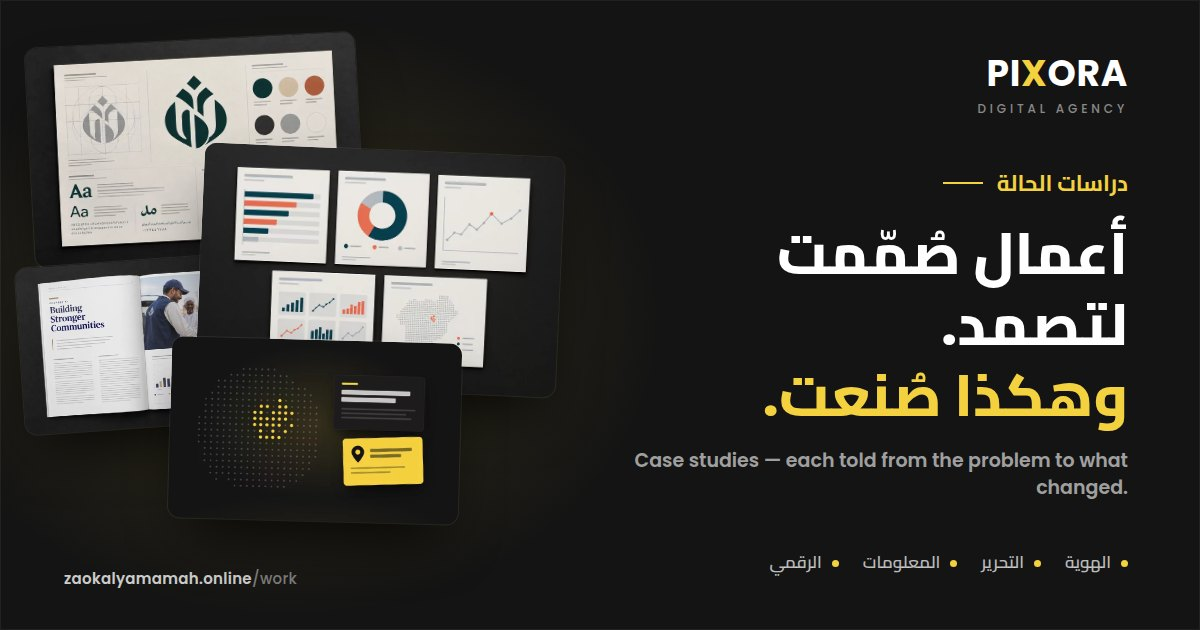
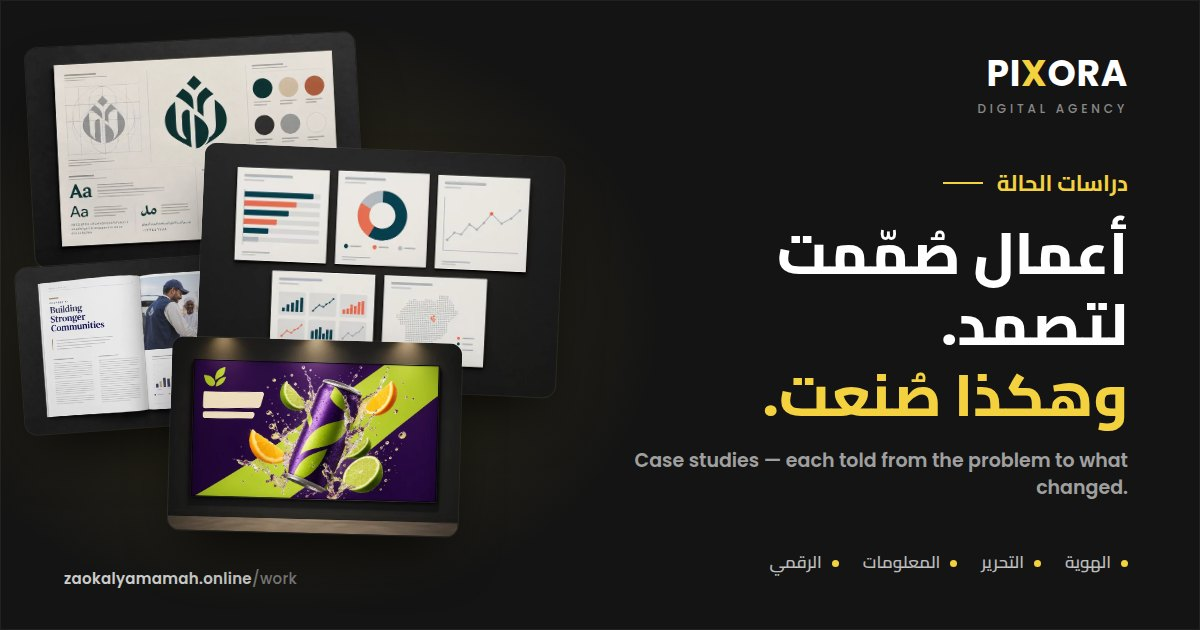
Remove Talk About Sudan; case study cards say what each study holds
- Talk About Sudan leaves the site: its study, hub card, drawn cover,
  images, link preview and the two drawings only it used. The /work
  preview's fourth print is now the digital campaigns key visual.
- Cards list how many pieces of work and chapters a study has, and its
  first pieces by name (+N for the rest); Al Mada's lists its four surfaces.
- Filters show how many studies each discipline holds, and sit in one
  sideways row on phones instead of wrapping.
- Tighter card padding on phones, a visible keyboard focus ring, and the
  arrow nudges forward on hover (mirrored in Arabic).
- Tests: every card lists its pieces, filter counts match, the study is gone.

Claude-Session: https://claude.ai/code/session_01DikwkirUeZhUSz4Z2QWBP7

Changed region(s): [[0.1233, 0.5127, 0.4008, 0.8746]]

diff --git a/tools/css/cases.css b/tools/css/cases.css
@@ -65,4 +65,25 @@
 /* The closing link and more of the work on Behance, side by side, wrapping on phones. */
 .c-story__close .c-story__link+.c-story__link{margin-inline-start:var(--space-32)}
 @media (max-width:40em){.c-story__close .c-story__link+.c-story__link{display:flex;inline-size:max-content;margin-inline-start:0;margin-block-start:var(--space-16)}}
+/* Cards, second pass: what each study holds, how many per discipline, and
+   a filter that stays on one line on phones. */
+.c-cases__count{display:inline-grid;place-items:center;min-inline-size:1.5rem;block-size:1.5rem;margin-inline-start:var(--space-8);padding-inline:0.375rem;border-radius:var(--radius-pill);background-color:rgba(255,255,255,0.08);font-size:0.75rem;font-variant-numeric:tabular-nums;color:inherit}
+.c-cases__radio:checked + .c-cases__chip .c-cases__count{background-color:rgba(0,0,0,0.14)}
+@media (max-width:47.99em){
+.c-cases__filter{flex-wrap:nowrap;overflow-x:auto;overscroll-behavior-x:contain;scrollbar-width:none;margin-inline:calc(var(--container-gutter) * -1);padding-inline:var(--container-gutter);padding-block:4px;scroll-padding-inline:var(--container-gutter);mask-image:linear-gradient(to right,transparent,#000 var(--space-16),#000 calc(100% - var(--space-24)),transparent)}
+.c-cases__filter::-webkit-scrollbar{display:none}
+.c-cases__chip{flex:none;white-space:nowrap}}
+.c-case-card__link{--pad:clamp(1.25rem,4vw,2rem);padding:var(--pad)}
+.c-case-card__media{margin:calc(var(--pad) * -1) calc(var(--pad) * -1) var(--space-12);box-shadow:0 -1px 0 rgba(255,255,255,0.06) inset}
+.c-case-card__link:focus-visible{outline:2px solid var(--color-accent);outline-offset:4px}
+.c-case-card__meta{font-size:var(--text-body-sm);color:var(--color-text-muted)}
+.c-case-card__pieces{display:flex;flex-wrap:wrap;gap:var(--space-8)}
+.c-case-card__piece{display:inline-flex;align-items:center;min-block-size:1.75rem;padding-inline:var(--space-12);border:var(--border-hairline);border-radius:var(--radius-pill);font-size:0.8125rem;color:var(--color-text-secondary)}
+.c-case-card__piece--more{color:var(--color-accent);border-color:rgba(244,209,63,0.35)}
+.c-case-card__go .c-btn__icon{transition:translate var(--duration-base) var(--ease-out)}
+@media (prefers-reduced-motion:no-preference){.c-case-card__link:is(:hover,:focus-visible) .c-case-card__go .c-btn__icon{translate:4px 0}
+:root[dir="rtl"] .c-case-card__link:is(:hover,:focus-visible) .c-case-card__go .c-btn__icon{translate:-4px 0}}
+@media (min-width:64em){.c-case-card--featured .c-case-card__link{padding-inline-end:var(--space-48);grid-template-rows:auto auto auto auto auto 1fr}
+.c-case-card--featured .c-case-card__link>:not(.c-case-card__media){grid-column:2}
+.c-case-card--featured .c-case-card__go{align-self:end}}
 /* CASES:END */

diff --git a/tools/share-cards/case-cover.html b/tools/share-cards/case-cover.html
@@ -75,13 +75,6 @@ body{background:#141414;overflow:hidden}
  <div class="p" style="left:1270px;top:170px;width:150px;height:360px;background:#f4d13f;border-radius:22px;display:grid;place-items:center"><span class="word" style="color:#141414;font-size:64px;writing-mode:vertical-rl;transform:rotate(180deg)">DATA</span></div>
 </div>
 
-<!-- Talk About Sudan: a field of dots, the evidence highlighted, editorial cards -->
-<div class="scene" id="talk-about-sudan">
- <svg style="position:absolute;left:140px;top:150px" width="700" height="700" viewBox="0 0 700 700" id="dots"></svg>
- <div class="p ink" style="left:900px;top:190px;width:500px;height:300px;border:1px solid rgba(255,255,255,.08)"><div style="position:absolute;left:40px;top:40px;width:90px;height:12px;border-radius:6px;background:#f4d13f"></div><div class="line" style="left:40px;top:80px;width:380px;height:26px;background:rgba(255,255,255,.75)"></div><div class="line" style="left:40px;top:120px;width:300px;height:26px;background:rgba(255,255,255,.75)"></div><div class="line" style="left:40px;top:180px;width:410px"></div><div class="line" style="left:40px;top:204px;width:360px"></div><div class="line" style="left:40px;top:228px;width:390px"></div></div>
- <div class="p gold" style="left:960px;top:530px;width:440px;height:260px;transform:rotate(-3deg)"><svg style="position:absolute;left:40px;top:34px" width="84" height="104" viewBox="0 0 24 30"><path d="M12 29s10-10.2 10-17A10 10 0 0 0 2 12c0 6.8 10 17 10 17z" fill="#141414"/><circle cx="12" cy="12" r="4" fill="#f4d13f"/></svg><div class="pline" style="left:150px;top:60px;width:230px;height:18px;background:rgba(20,20,20,.55)"></div><div class="pline" style="left:150px;top:92px;width:170px;height:18px;background:rgba(20,20,20,.55)"></div><div class="pline" style="left:40px;top:160px;width:300px;background:rgba(20,20,20,.35)"></div><div class="pline" style="left:40px;top:186px;width:220px;background:rgba(20,20,20,.35)"></div></div>
-</div>
-
 <!-- Digital communication campaigns: phones, posts, motion -->
 <div class="scene" id="digital-campaigns">
  <div class="p phone" style="left:360px;top:230px;transform:rotate(-10deg)"><div class="scr" style="background:linear-gradient(160deg,#262626,#141414)"><div style="position:absolute;inset:40px 26px auto;height:230px;border-radius:18px;background:#f4d13f"></div><div class="line" style="left:26px;top:300px;width:200px;height:18px;background:rgba(255,255,255,.75)"></div><div class="line" style="left:26px;top:334px;width:150px"></div></div></div>

diff --git a/tools/share-cards/work.html b/tools/share-cards/work.html
@@ -9,7 +9,7 @@
  <div class="print p1"><img src="../../overlay/assets/case-brand-identity-systems-identity-800.webp"></div>
  <div class="print p2"><img src="../../overlay/assets/case-information-design-800.webp"></div>
  <div class="print p3"><img src="../../overlay/assets/case-editorial-publication-design-spread-800.webp"></div>
- <div class="print p4"><img src="../../overlay/assets/case-talk-about-sudan-800.webp"></div>
+ <div class="print p4"><img src="../../overlay/assets/case-digital-campaigns-key-visual-800.webp"></div>
 </div>
 <div class="text">
  <div><div class="brand">PI<b>X</b>ORA</div><div class="tag">Digital Agency</div></div>

diff --git a/tools/case_stories.py b/tools/case_stories.py
@@ -177,19 +177,8 @@ def _path(s):
     s.box(260, 200, 90, 50, 2)
 
 
-def _person(s):
-    s.box(80, 30, 240, 240, 0)
-    s.circle(200, 118, 36)
-    s.ink("M132 250 C140 190 260 190 268 250")
-    s.ink("M110 60 C150 44 250 44 290 60", accent=True, width=2)
 
 
-def _series(s):
-    for i, h in enumerate((70, 84, 98, 112)):
-        s.box(34 + i * 72, 220 - h, 58, h, 0)
-    s.box(322, 220 - 126, 58, 126, 0, draft=True)
-    s.line(34, 240, 380, 240, width=1.2)
-    s.dot(270, 240)
 
 
 def _target(s):
@@ -224,8 +213,6 @@ SKETCHES = {  # kind: (draw, EN, AR)
     "chart": (_chart, "A simple bar chart with one bar and one point marked.", "رسم أعمدة بسيط، عُلِّم فيه عمود واحد ونقطة واحدة."),
     "table": (_table, "A dense table with one figure circled.", "جدول مزدحم، ورقم واحد فيه محاط بدائرة."),
     "path": (_path, "A tangled line straightening into a clear path.", "خط متشابك يستقيم ليصبح مسارًا واضحًا."),
-    "person": (_person, "A person drawn at the centre of the frame, not at its edge.", "إنسان مرسوم في وسط الإطار، لا على حافته."),
-    "series": (_series, "A row of pieces, with space left for the next.", "صف من القطع، ومساحة متروكة للقطعة التالية."),
     "target": (_target, "One target, one arrow.", "هدف واحد، وسهم واحد."),
     "motion": (_motion, "A frame with a play mark and lines of movement.", "إطار فيه علامة تشغيل وخطوط حركة."),
 }
@@ -395,57 +382,6 @@ STORIES = {
         ],
         "close": (("If your research has to reach people who will never open the full report, that is where we start.",
                    "إذا كان بحثك يجب أن يصل إلى من لن يفتح التقرير الكامل أبدًا، فمن هناك نبدأ."),
-                  "/#contact", ("Talk to the team", "تحدّث مع الفريق")),
-    },
-    "talk-about-sudan": {
-        "behance": "https://www.behance.net/moodboard/224952325/Talk-about-Sudan",
-        "pieces": {
-            "map": (("Map", "الخريطة"), (3, 2), "pin"),
-            "series": (("The series", "السلسلة"), (16, 9), "grid"),
-            "piece": (("Editorial piece", "قطعة تحريرية"), (4, 5), "phone"),
-            "motion": (("Motion concept", "مفهوم الحركة"), (16, 9), "play"),
-        },
-        "hero": ["map", "series", "piece", "motion"],
-        "headline": ("The evidence exists. Few people can read it.", "الأدلة موجودة، لكن قلّة يستطيعون قراءتها."),
-        "standfirst": ("Talk About Sudan is a self-initiated editorial series: verified information from trusted humanitarian sources, turned into visual stories that show the scale, the context and the human impact of the crisis — with clarity, accuracy and dignity.",
-                       "Talk About Sudan سلسلة تحريرية بمبادرة ذاتية: معلومات موثّقة من مصادر إنسانية موثوقة، تتحوّل إلى قصص بصرية تُظهر حجم الأزمة وسياقها وأثرها الإنساني — بوضوح ودقة وكرامة."),
-        "chapters": [
-            {"key": "why", "note": ("why", "لماذا"), "sketch": "pages",
-             "title": ("Numbers repeated until they stop meaning anything.", "أرقام تتكرر حتى تفقد معناها."),
-             "lead": ("Humanitarian reports on Sudan hold critical evidence on food security, displacement, health and education — written for specialists. The public meets the same statistics again and again, without the context that would make them mean something.",
-                      "تحمل التقارير الإنسانية عن السودان أدلة حاسمة عن الأمن الغذائي والنزوح والصحة والتعليم — مكتوبة للمتخصصين. ويلتقي الجمهور بالإحصاءات نفسها مرة بعد مرة، دون السياق الذي يجعل لها معنى."),
-             "aside": ("Nobody commissioned this series, which is exactly why its standards are ours to keep.",
-                       "لم يطلب أحد هذه السلسلة، ولهذا بالتحديد فمعاييرها مسؤوليتنا وحدنا."),
-             "work": []},
-            {"key": "sources", "note": ("the sources", "المصادر"), "sketch": "search",
-             "title": ("Primary sources only. No assumptions.", "المصادر الأولية فقط، بلا افتراضات."),
-             "lead": ("Each piece starts in the primary sources — trusted humanitarian organisations and their published assessments. Every figure is verified before any design begins; what cannot be verified is not published.",
-                      "تبدأ كل قطعة من المصادر الأولية — المنظمات الإنسانية الموثوقة وتقييماتها المنشورة. ويُتحقق من كل رقم قبل أن يبدأ أي تصميم؛ وما لا يمكن التحقق منه لا يُنشر."),
-             "aside": ("Evidence before aesthetics — in that order, every time.", "الدليل قبل الجماليات — بهذا الترتيب، في كل مرة."),
-             "work": ["piece"]},
-            {"key": "story", "note": ("the story", "القصة"), "sketch": "path",
-             "title": ("Scale, context, and the people inside the numbers.", "الحجم، والسياق، والناس داخل الأرقام."),
-             "lead": ("Every piece answers three questions in order: what is happening, why, and who it affects. Maps place the crisis, charts give it scale, and the editorial structure keeps the two in the service of the story rather than the other way round.",
-                      "تجيب كل قطعة عن ثلاثة أسئلة بترتيبها: ماذا يحدث، ولماذا، ومن يتأثر به. الخرائط تحدد مكان الأزمة، والرسوم تعطيها حجمها، والبنية التحريرية تُبقي الاثنين في خدمة القصة لا العكس."),
-             "aside": ("Every visual carries evidence; none is there only to move the reader.", "كل عنصر بصري يحمل دليلًا؛ ولا شيء فيها لمجرد التأثير في القارئ."),
-             "work": ["map"]},
-            {"key": "dignity", "note": ("dignity", "الكرامة"), "sketch": "person",
-             "title": ("Showing a crisis without taking anyone's dignity.", "أن تُظهر الأزمة دون أن تنتقص من كرامة أحد."),
-             "lead": ("No sensational images, and people shown as people, not as statistics. The typography stays calm, the colour restrained, and the motion concepts exist to help a reader understand — never to shock them into sharing.",
-                      "لا صور صادمة، والناس يظهرون بشرًا لا أرقامًا. الخطوط هادئة، والألوان متحفّظة، ومفاهيم الحركة موجودة لتعين القارئ على الفهم — لا لتصدمه كي يشارك."),
-             "aside": ("Ethical representation of affected communities is a design decision, made on every page.",
-                       "التمثيل الأخلاقي للمجتمعات المتأثرة قرار تصميمي، يُتخذ في كل صفحة."),
-             "work": ["motion"]},
-            {"key": "series", "note": ("what it became", "ما أصبح عليه"), "sketch": "series",
-             "title": ("A series that grows one verified piece at a time.", "سلسلة تكبر، قطعةً موثّقة بعد أخرى."),
-             "lead": ("Food security, education, health, displacement, inflation and humanitarian access — each a structured visual story for digital audiences. And a method that can be repeated: sources, structure, dignity.",
-                      "الأمن الغذائي والتعليم والصحة والنزوح والتضخم والوصول الإنساني — كلٌّ منها قصة بصرية منظمة لجمهور رقمي. ومنهجية يمكن تكرارها: المصادر، والبنية، والكرامة."),
-             "aside": ("We do not publish results we cannot prove. These chapters stop at what was made.",
-                       "لا ننشر نتائج لا نستطيع إثباتها. تقف هذه الفصول عند ما صُنع."),
-             "work": ["series"]},
-        ],
-        "close": (("Talk About Sudan continues. The same method is what we bring to any organisation that has something serious to explain.",
-                   "Talk About Sudan مستمرة. والمنهجية نفسها هي ما نقدمه لأي مؤسسة لديها أمر جاد تريد شرحه."),
                   "/#contact", ("Talk to the team", "تحدّث مع الفريق")),
     },
     "digital-campaigns": {

diff --git a/tools/cases.py b/tools/cases.py
@@ -60,6 +60,7 @@ FEATURED = {
     "title": ("One brand, four surfaces.", "هوية واحدة، أربع واجهات."),
     "summary": ("Identity, website, campaign and company profile — one partner, one standard, from the first sketch to the last poster.",
                 "هوية وموقع وحملة وملف تعريفي — شريك واحد ومعيار واحد، من أول رسمة حتى آخر ملصق."),
+    "pieces": [("Identity", "الهوية"), ("Website", "الموقع"), ("Campaign", "الحملة"), ("Company profile", "الملف التعريفي")],
 }
 
 CASES = [
@@ -83,13 +84,6 @@ CASES = [
         "title": ("Information design &amp; visual storytelling", "تصميم المعلومات والسرد البصري"),
         "summary": ("Infographics, presentations and data stories that turn research into something people understand.",
                     "إنفوجرافيك وعروض وقصص بيانات تحوّل الأبحاث إلى ما يفهمه الناس."),
-    },
-    {
-        "slug": "talk-about-sudan", "kinds": "editorial information",
-        "category": ("Visual Storytelling", "السرد البصري"),
-        "title": ("Talk About Sudan", "Talk About Sudan — تحدّث عن السودان"),
-        "summary": ("A self-initiated editorial series that turns humanitarian reporting on Sudan into clear visual narratives.",
-                    "سلسلة تحريرية بمبادرة ذاتية تحوّل التقارير الإنسانية عن السودان إلى سرديات بصرية واضحة."),
     },
     {
         "slug": "digital-campaigns", "kinds": "digital",
@@ -121,14 +115,30 @@ def cover(slug, lazy=True, sizes="(min-width: 64em) 40rem, 100vw"):
             f'sizes="{sizes}" alt="" width="1600" height="1000" {load} decoding="async" />')
 
 
+def inside(pieces, chapters=None, shown=3):
+    """What a card's study holds: its first pieces by name, then how much more."""
+    chips = "".join(f'<span class="c-case-card__piece">{bi(en, ar)}</span>' for en, ar in pieces[:shown])
+    if len(pieces) > shown:
+        chips += f'<span class="c-case-card__piece c-case-card__piece--more">+{len(pieces) - shown}<span class="u-visually-hidden">{bi(" more", " أخرى")}</span></span>'
+    n = len(pieces)
+    meta = bi(f"{n} pieces of work", f"{n} {'قطع' if n <= 10 else 'قطعة'} من العمل")
+    if chapters:
+        meta += " · " + bi(f"{chapters} chapters", f"{chapters} فصول")
+    return (f'<span class="c-case-card__meta">{meta}</span>'
+            f'<span class="c-case-card__pieces">{chips}</span>')
+
+
 def card(c, wide=False):
     extra = " c-case-card--wide" if wide else ""
+    story = STORIES[c["slug"]]
+    pieces = [label for label, _, _ in story["pieces"].values()]
     return f'''            <li class="c-case-card{extra}" data-kinds="{c["kinds"]}">
               <a class="c-case-card__link" href="/work/{c["slug"]}">
                 <span class="c-case-card__media" style="view-transition-name: case-{c["slug"]}">{cover(c["slug"])}</span>
                 <span class="c-case-card__kind">{bi(*c["category"])}</span>
                 <span class="c-case-card__title">{bi(*c["title"])}</span>
                 <span class="c-case-card__summary">{bi(*c["summary"])}</span>
+                {inside(pieces, len(story["chapters"]))}
                 <span class="c-case-card__go">{bi("Read the case study", "اقرأ دراسة الحالة")}{ARROW}</span>
               </a>
             </li>'''
@@ -142,15 +152,18 @@ def featured():
                 <span class="c-case-card__kind">{bi(*f["category"])}</span>
                 <span class="c-case-card__title">{bi(*f["title"])}</span>
                 <span class="c-case-card__summary">{bi(*f["summary"])}</span>
+                {inside(f["pieces"], shown=4)}
                 <span class="c-case-card__go">{bi("Read the full story", "اقرأ القصة كاملة")}{ARROW}</span>
               </a>
             </li>'''
 
 
 def hub_main():
+    every = [FEATURED] + CASES
+    count = {k: sum(k == "all" or k in c["kinds"].split() for c in every) for k, _, _ in [("all", "", "")] + KINDS}
     chips = "\n".join(
         f'''            <input class="c-cases__radio" type="radio" name="case-kind" id="kind-{k}" value="{k}"{" checked" if k == "all" else ""} />
-            <label class="c-cases__chip" for="kind-{k}">{bi(en, ar)}</label>''' for k, en, ar in [("all", "All work", "كل الأعمال")] + KINDS)
+            <label class="c-cases__chip" for="kind-{k}">{bi(en, ar)}<span class="c-cases__count" aria-hidden="true">{count[k]}</span></label>''' for k, en, ar in [("all", "All work", "كل الأعمال")] + KINDS)
     cards = "\n".join([featured()] + [card(c) for c in CASES])
     return f'''<main id="main" class="c-cases-page">
       <section class="l-section c-cases" aria-labelledby="cases-title">

diff --git a/tools/images.py b/tools/images.py
@@ -26,7 +26,7 @@ build itself never encodes anything (the results are committed).
           it is real, it is the study's cover).
 
   work    <folder>/<slug>-<piece>.png|.jpg|.webp, named after a study and one of
-          its pieces in tools/case_stories.py (e.g. talk-about-sudan-map.png)
+          its pieces in tools/case_stories.py (e.g. information-design-infographic.png)
           → case-<slug>-<piece>.webp (1600 wide) and -800.webp, cropped to
           the piece's proportions. Rebuild, and the image replaces the
           placeholder wherever the piece appears.

diff --git a/README.md b/README.md
@@ -170,15 +170,17 @@ to them.
 
 ## Case studies — /work
 
-`tools/cases.py` builds the section; `tools/case_stories.py` holds the five
-studies (identity systems, editorial, information design, Talk About Sudan,
-digital campaigns), each in English and Arabic, in the team's voice, with no
+`tools/cases.py` builds the section; `tools/case_stories.py` holds the four
+studies (identity systems, editorial, information design, digital
+campaigns), each in English and Arabic, in the team's voice, with no
 number or result the work cannot show.
 
 - `/work` — the hub: the Al Mada story as the featured card, then one card
   per study, filtered by discipline (identity, editorial, information,
   digital) without reloading — plain radio buttons and CSS, so it works
-  without JavaScript too. The menu's "Case studies" and the homepage's
+  without JavaScript too. Each filter shows how many studies it holds (a
+  single sideways row on phones), and each card lists what its study holds:
+  how many pieces and chapters, and the first pieces by name. The menu's "Case studies" and the homepage's
   "All case studies" link lead here.
 - `/work/<slug>` — each study told the way the Al Mada story is: its headline
   beside four pieces of its work laid out like prints (each a link down to
@@ -192,7 +194,7 @@ number or result the work cannot show.
 sheet, report cover, map, stories…) with their proportions. Until a piece's
 image exists it shows as a framed placeholder in those proportions, so the
 page does not move when the work arrives. To add the real work, name each
-image `<slug>-<piece>` (for example `talk-about-sudan-map.png`,
+image `<slug>-<piece>` (for example `information-design-infographic.png`,
 `brand-identity-systems-packaging.jpg` — the slugs and piece names are in
 `tools/case_stories.py`), put them in one folder, and run
 
